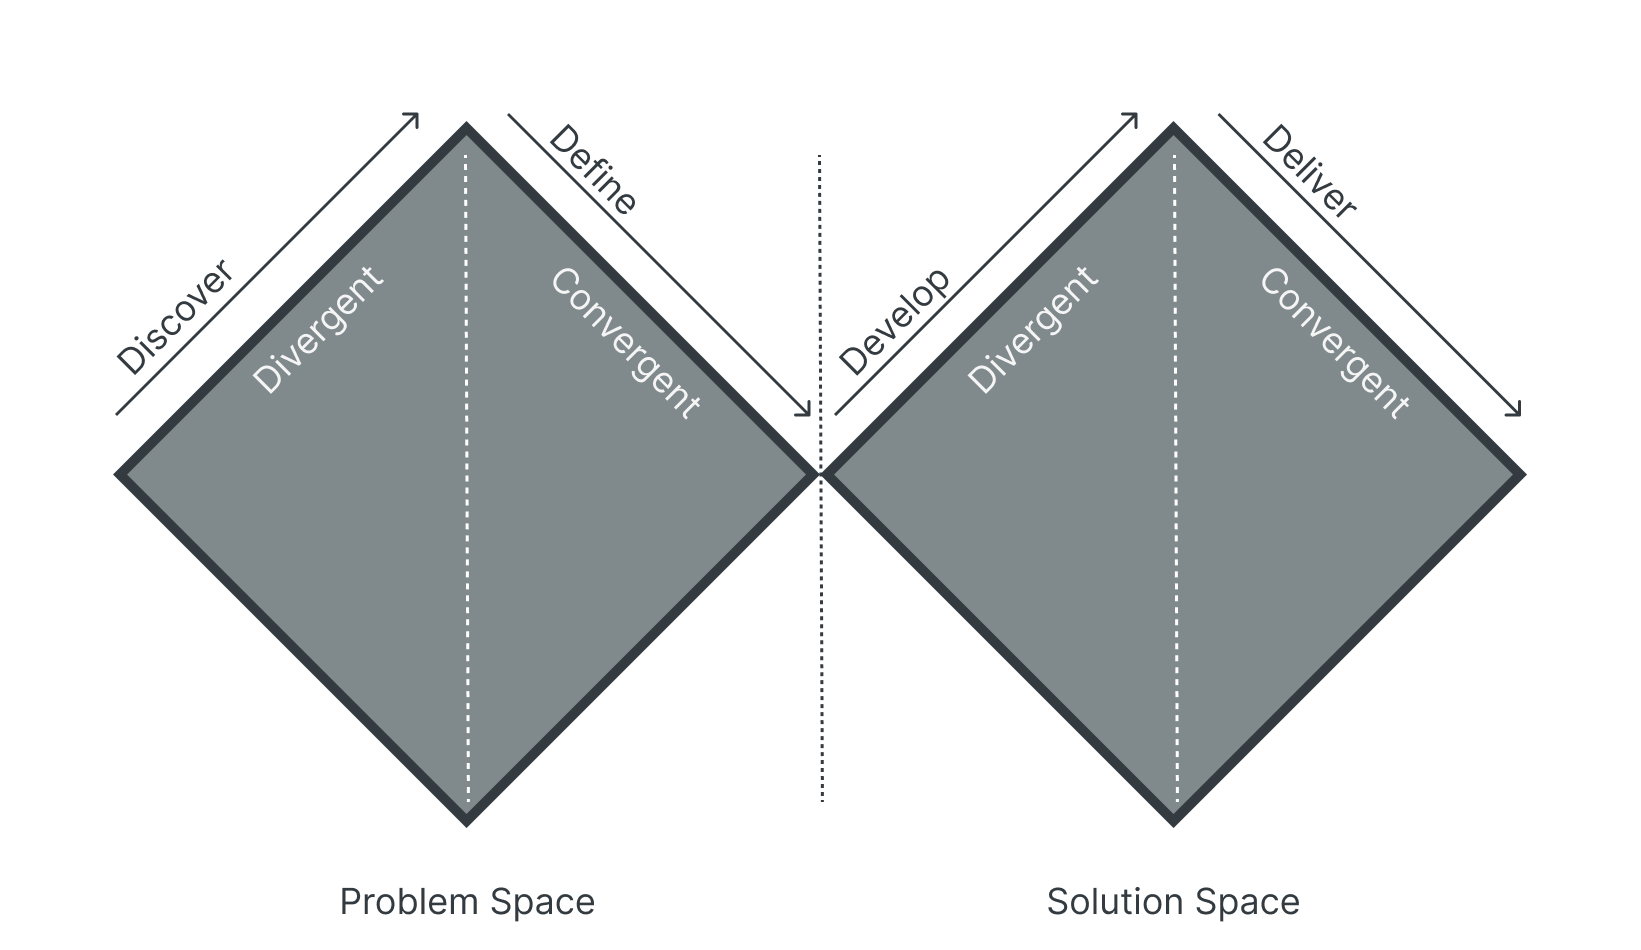
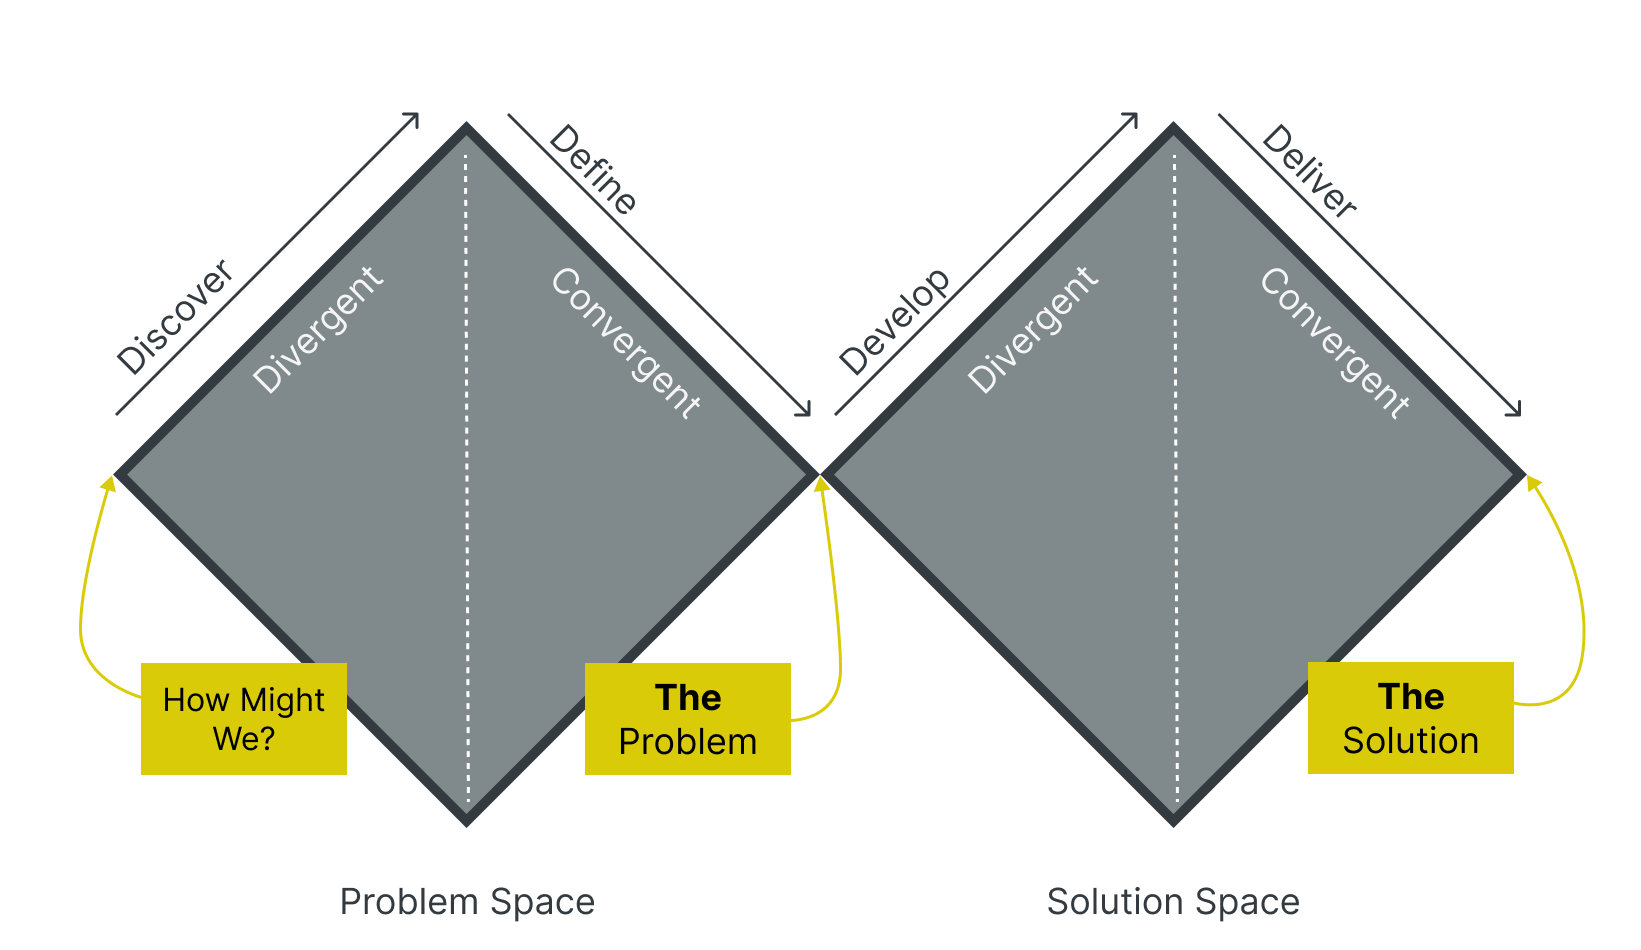
WIP

diff --git a/content/posts/other/designthinking.md b/content/posts/other/designthinking.md
@@ -1,17 +1,27 @@
-Title: Leverage Design Thinking to Bring Data Science to the Next Level
+Title: How Might We Utilize Design Thinking to Boost Data Science Projects
 Date: 2022-06-26
 Modified: 2022-02-26
 Status: draft
 Tags: design thinking, datascience, design
 Slug: designthinking
 Authors: Brian Roepke
-Summary: How design thinking can work with Data Science
+Summary: How you can you think like a desginer and make more usable, impactful, and innovative data-driven products!
+Description: Think like a desginer and make more usable, impactful, and innovative data-driven products by utilizing Design Thinking with your customers and stakeholders.
 Header_Cover: images/covers/postit.jpg
 Og_Image: images/covers/postit.jpg
 Twitter_Image: images/covers/postit.jpg
 
 # What is Design Thinking?
 
+The first thing you might be thinking is "What does design thinking have to do with Data Science?!"  Let's start with a definition of [Design Thinking](https://en.wikipedia.org/wiki/Design_thinking) and then let's see how everyone can apply Design Thinking Methods to Data Science.
+
+According to one the early pioneers of Design thinking, [IDEO](https://designthinking.ideo.com), they define Design Thinking as:
+
+>Design thinking is a human-centered approach to innovation that draws from the designer’s toolkit to integrate the needs of people, the possibilities of technology, and the requirements for business success.
+
+A few things jump out.  First is that it's a human-centered approach, which means that you're designing solutions in service of people, not of technology.  Every Data Scientist and Analyst should be thinking about the user first! Second is that it's taking tools from designers and applying them to generalized business success. Design Thinking isn't just for designers and it certainly isn't just for software User Interfaces (UI)!
+
+As a Data Scientist, there are numerous ways that you can incorporate Design Thinking into your work to help solve problems such as:
 
 1. Stakeholder Management
 2. Identifying the Most Important Problem to Solve
@@ -20,14 +30,45 @@ Twitter_Image: images/covers/postit.jpg
 5. Determing the Usability of Your Solution
 6. Build a Launch Plan
 
+Before jumping in, let's take a look a a few fundamentals of Design Thinking.
+
 ## The Double Diamond
+
+The first I want to talk about is the concept of the Double Diamond
 
 ![Double Diamond]({static}../../images/posts/designthinking_02.png)
 
-## The LUMA Institute
+## How Might We
+
+You may have heard this phrase before, **How Might We** which is often abbreviated to **HMW**. These three powerful little words help us frame a problem statement in a powerful, inclusive way.
+
+- **How** suggesting that we don't yet know what the solution is.
+- **Might** suggesting that a solution is possible and there could be several ways to implement it.
+- **We** brings everyone together to help solve the problem.
+
+You'll see this quite a bit when practicing Design Thinking.  I suggest you try it yourself and see how it invites collaboration help open up your problem statement to new perspectives.  Let's take a look at a quick example:
+
+**from**
+
+*Build a reccomender system for music*
+
+**to**
+
+*How might we queue up music that will delight users and keep them listening for hours?*
+
+Notice the difference? Much more inspiring and also brings the user into the problem.
+
+
+## Design Thinking Methods
+
+There are many different design thinking methods that you can utilize.  There probably are hundreds or even thousands of them. Different organizations have curated "systems" of design thinking methods and selected ones for you such as [IDEO's Design Kit](https://www.designkit.org/methods), [Google Design Sprints](https://designsprintkit.withgoogle.com) or the set that I'm certified in, the [LUMA Institudes Methods](https://www.luma-institute.com/about-luma/luma-system-explore-methods/).
+
+
+Here are a full list of the LUMA methods from their [website](https://www.luma-institute.com/about-luma/luma-system-explore-methods/).  We'll cover several of these in this post, but in reality, every one of these can apply at some point in time to Data Science.  Each method is documented on their website if you'd like to learn more.
 
 ![LUMA Methods]({static}../../images/posts/designthinking_01.png)
 
+Let's get started! 
 
 ## Stakeholder Management
 
@@ -58,8 +99,6 @@ Experience Diagramming and System Usability Scale
 
 Concept Poster, Cover Story Mockup
 
-
-Note: Explain all this stuff
 
 ## Conclusion
 
